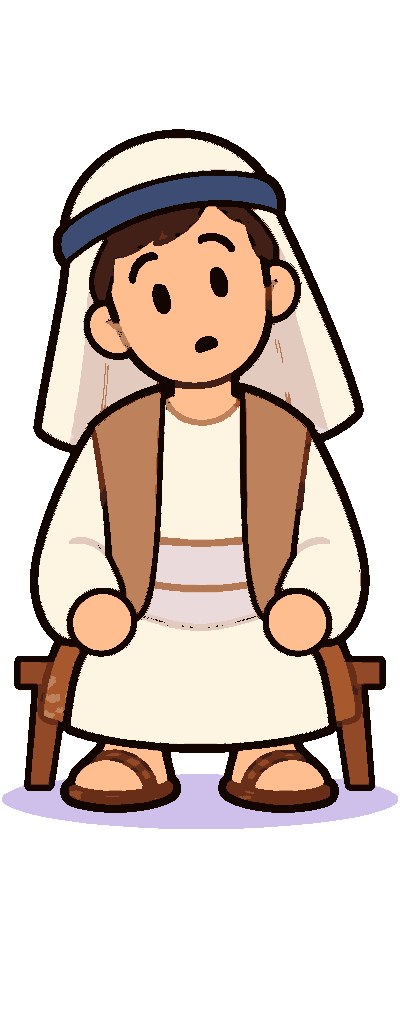
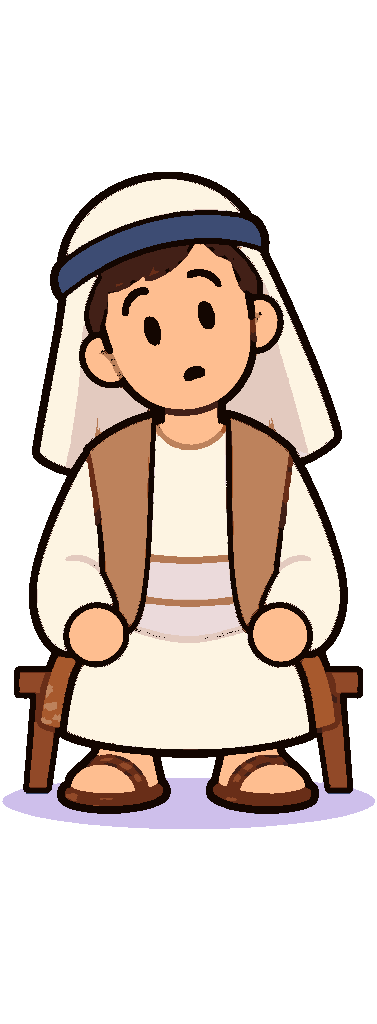
fix(animations): lay the feast guest man's wonder pass at 0.94 of its measured scale and re-split it, so his head and shoulders keep their size when he turns on the question

Changed region(s): [[0.0292, 0.125, 0.9629, 0.8125]]

diff --git a/apps/animations/src/library/cast/feast-guest-man/shot-sheets/iio-table/cells.ts b/apps/animations/src/library/cast/feast-guest-man/shot-sheets/iio-table/cells.ts
@@ -12,5 +12,5 @@ export const CELLS = {
   stare: { png: cell2, size: [384, 1024], ax: 192.5, ay: 829, head: 282 },
   smile: { png: cell3, size: [371, 1024], ax: 193.5, ay: 829, head: 282 },
   laugh: { png: cell4, size: [372, 1024], ax: 186.5, ay: 829, head: 282 },
-  wonder: { png: cell5, size: [400, 1024], ax: 200.5, ay: 829, head: 282 },
+  wonder: { png: cell5, size: [377, 1024], ax: 188.5, ay: 829, head: 265 },
 } as const;
